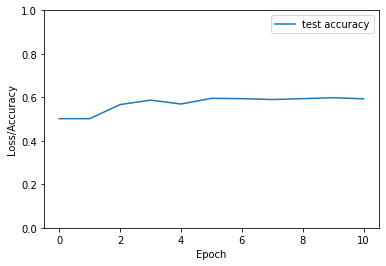
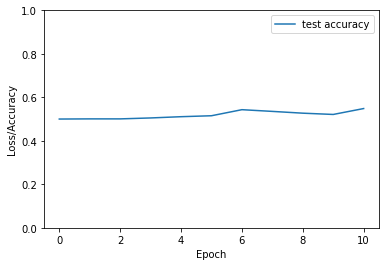
changed it so that all points are really read seperately but now its not working anymore

Changed region(s): [[0.1554, 0.3609, 0.9637, 0.4511]]

diff --git a/assignment7/lstm_layer.py b/assignment7/lstm_layer.py
@@ -10,15 +10,22 @@ class LSTM_Layer(K.layers.Layer):
 
     def __init__(self):
         super(LSTM_Layer, self).__init__()
-        self.cell = LSTM_Cell(64)
+        self.cell = LSTM_Cell(1)
 
     def call(self, x, states):
         outputs = tf.TensorArray(tf.float32, size=0, dynamic_size=True)
-        # transposing to divide by entries and not by batch-elements
-        for i, elem in enumerate(tf.transpose(x)):
+        x_unstacked = tf.unstack(x, axis = 1)
+        for index in range(tf.shape(x)[1]):
+            elem = x_unstacked[index]
             out, states = self.cell(elem, states)
-            outputs = outputs.write(i, out)
+            outputs = outputs.write(index, out)
+        # transposing to divide by entries and not by batch-elements
+        # for i, elem in enumerate(tf.transpose(x)):
+        #     out, states = self.cell(elem, states)
+        #     outputs = outputs.write(i, out)
         return outputs.stack()
 
     def zero_states(self, batch_size):
-        return tf.zeros(batch_size)
+        states =  tf.zeros(batch_size)
+        states = tf.reshape(states, (64,1))
+        return states

diff --git a/assignment7/training_loop.py b/assignment7/training_loop.py
@@ -24,7 +24,7 @@ def train_step(model, input, target, loss_function, optimizer):
   with tf.GradientTape() as tape:
     prediction = model(input)
     # only using the prediction of the last timestamp
-    prediction = prediction[:, -1, 0]
+    prediction = prediction[-1,:,0]
     loss = loss_function(target, prediction)
   gradients = tape.gradient(loss, model.trainable_variables)
 
@@ -52,7 +52,7 @@ def test(model, test_data, loss_function):
   for (input, target) in test_data:
     prediction = model(input)
     # only using the prediction of the last timestamp
-    prediction = prediction[:,-1,0]
+    prediction = prediction[-1,:,0]
     sample_test_loss = loss_function(target, prediction)
     sample_test_accuracy =  target == tf.cast(tf.round(prediction), tf.int32)
     sample_test_accuracy = np.mean(sample_test_accuracy)

diff --git a/assignment7/run.py b/assignment7/run.py
@@ -7,7 +7,7 @@ import input_pipeline, training_loop
 
 
 dataset = tf.data.Dataset.from_generator(my_integration_task, output_signature= (
-                                                                                tf.TensorSpec(shape = (10,1), dtype = tf.float32),
+                                                                                tf.TensorSpec(shape = (25,1), dtype = tf.float32),
                                                                                 tf.TensorSpec(shape= (), dtype = tf.int32)))
 
 number_data_points = 64000

diff --git a/assignment7/lstm_model.py b/assignment7/lstm_model.py
@@ -14,6 +14,6 @@ class LSTM_Model(K.Model):
         #x = self.read_in(x)
         x = self.lstm(x, self.lstm.zero_states(64))
         # transpose to apply the output layer to every time stamp individually
-        x = tf.transpose(x)
+        #x = tf.transpose(x)
         x = self.output_layer(x)
         return x

diff --git a/assignment7/generator.py b/assignment7/generator.py
@@ -12,7 +12,7 @@ def integration_task(seq_len, num_samples):
         yield data_points, int(target)
 
 def my_integration_task():
-    seq_len = 10
+    seq_len = 25
     num_samples = 64000
     for elem in integration_task(seq_len, num_samples):
         yield elem
